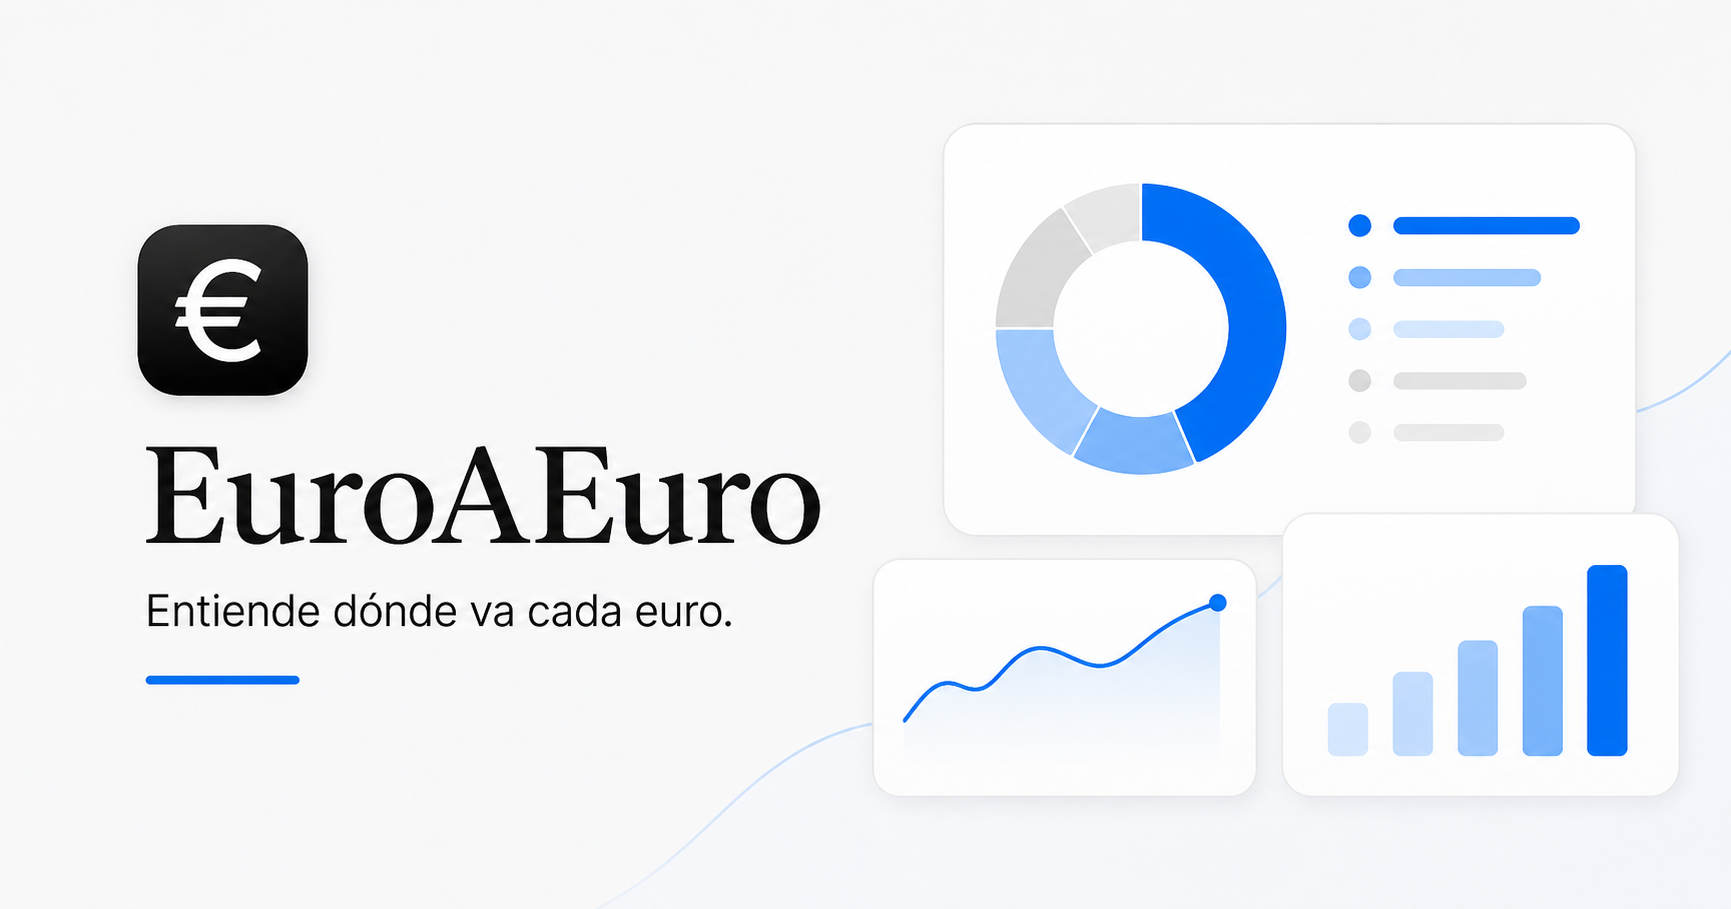
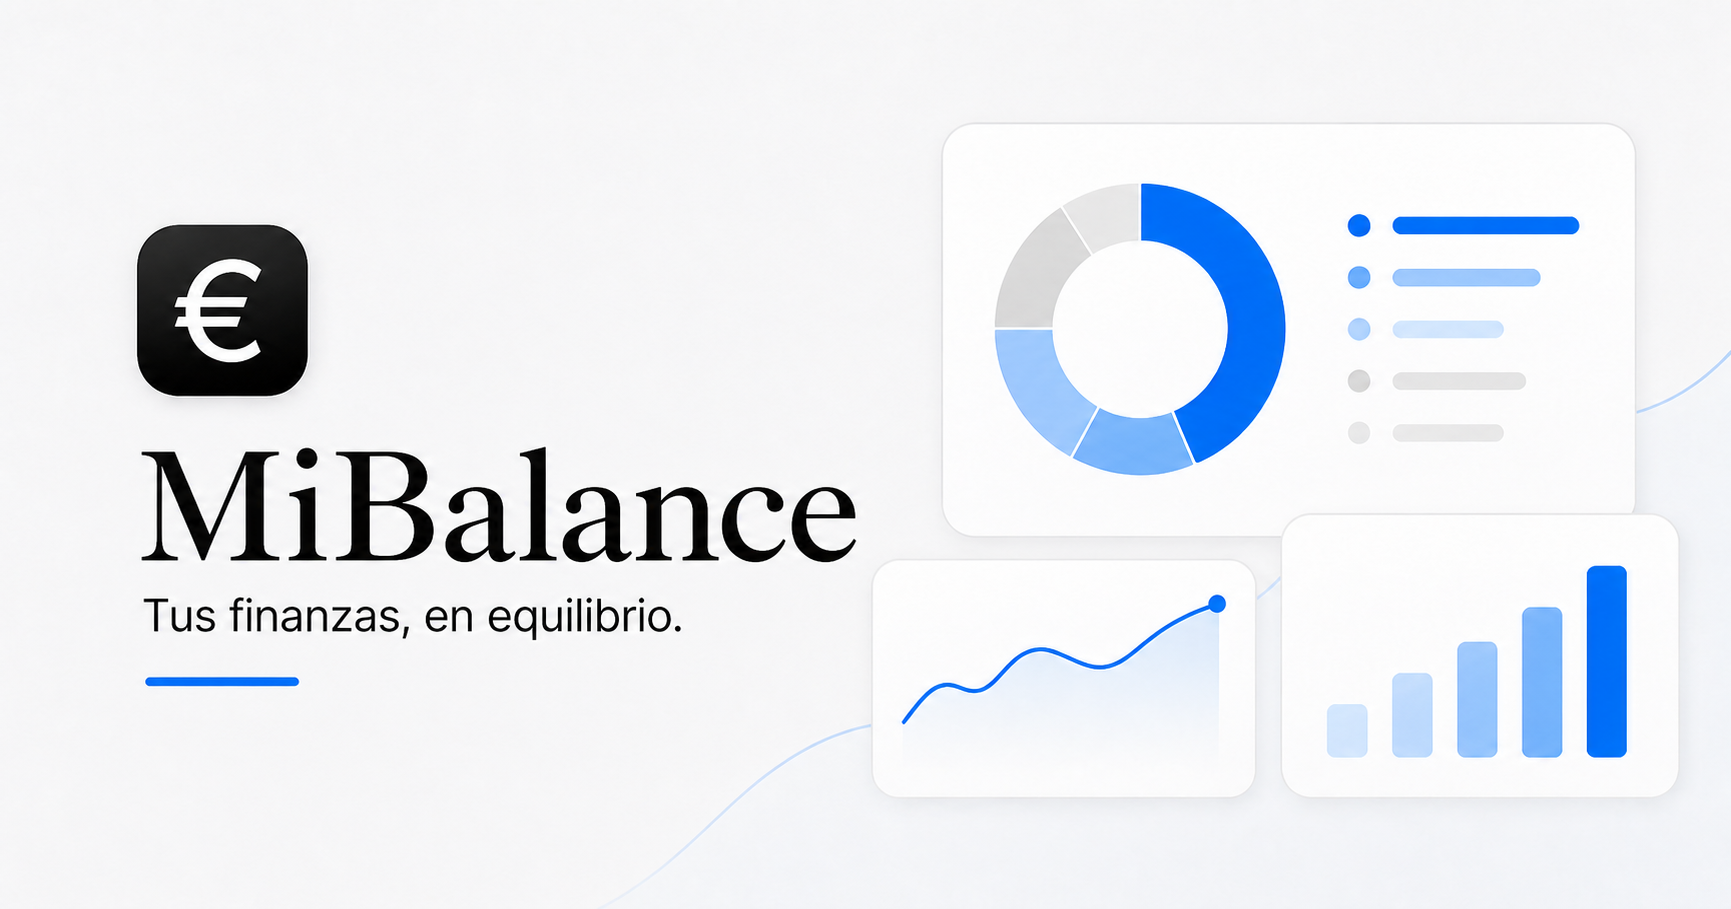
Update README.md

diff --git a/README.md b/README.md
@@ -1,6 +1,6 @@
-# EuroAEuro
+# MiBalance
 
-![EuroAEuro — Entiende dónde va cada euro](public/og.png)
+![MiBalance — Tus finanzas, en equilibrio](public/og.png)
 
 Una aplicación web local-first para importar y clasificar automáticamente tus movimientos de Ibercaja. Obtén un resumen anual de tus gastos para descubrir dónde gastas más, identificar tus mayores gastos y conocer cuáles son recurrentes, acompañado de un resumen de IA sobre tu actividad financiera anual.
 
@@ -54,4 +54,4 @@ El repositorio incluye un CSV ficticio de Ibercaja en [`public/ejemplo-ibercaja.
 
 ## Conexiones bancarias futuras
 
-Una conexión bancaria real requeriría un proveedor AISP autorizado con cobertura de Ibercaja, OAuth/SCA, almacenamiento cifrado de tokens en servidor y revisión legal PSD2/RGPD. EuroAEuro no solicita credenciales bancarias ni utiliza scraping.
+Una conexión bancaria real requeriría un proveedor AISP autorizado con cobertura de Ibercaja, OAuth/SCA, almacenamiento cifrado de tokens en servidor y revisión legal PSD2/RGPD. MiBalance no solicita credenciales bancarias ni utiliza scraping.
